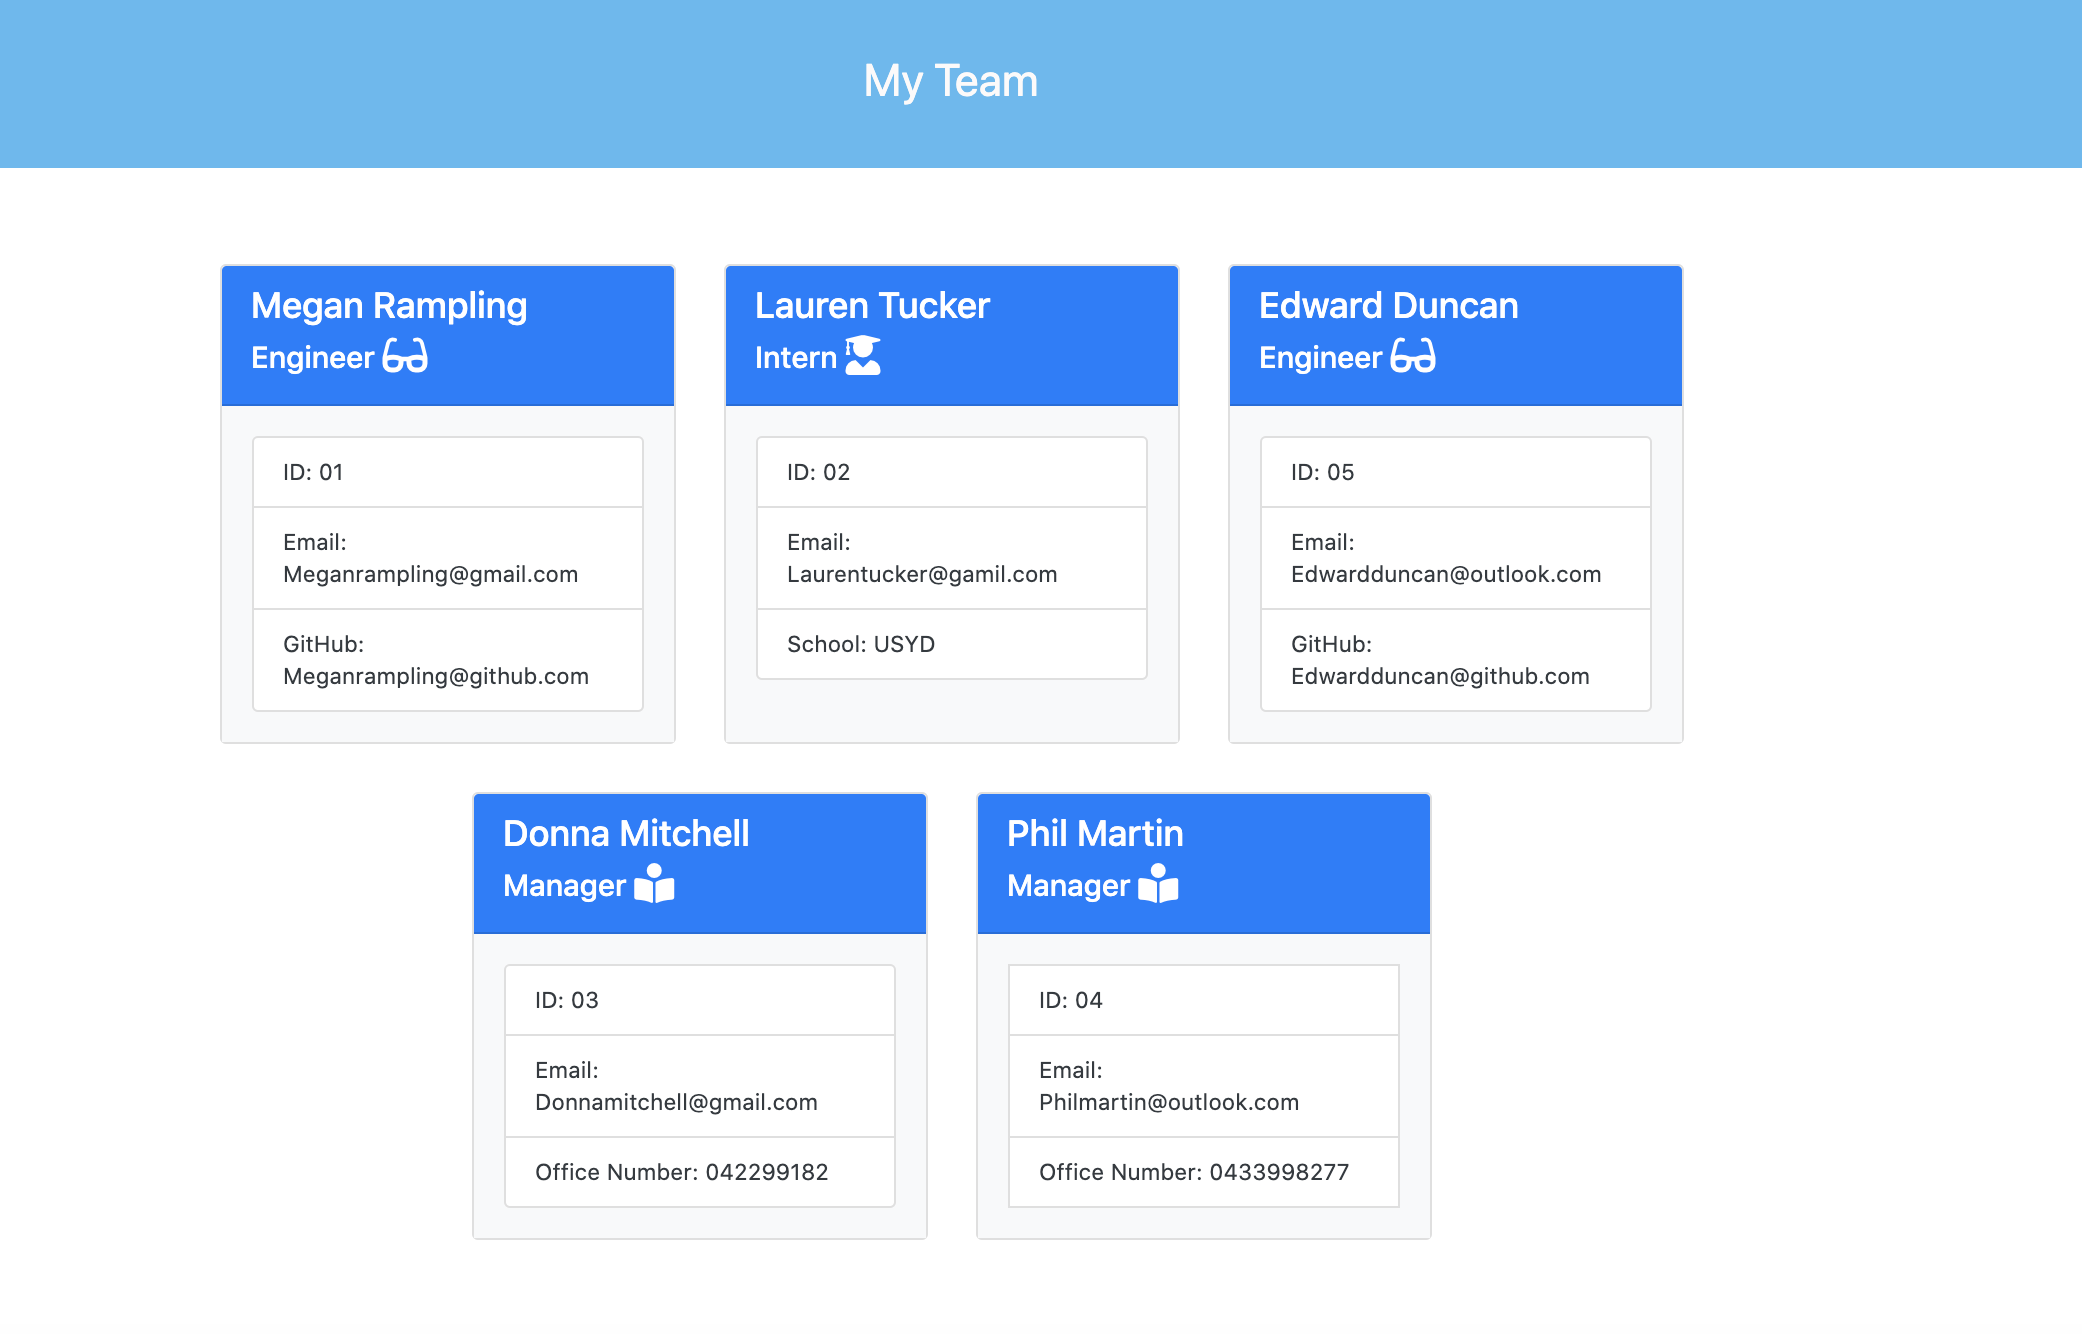
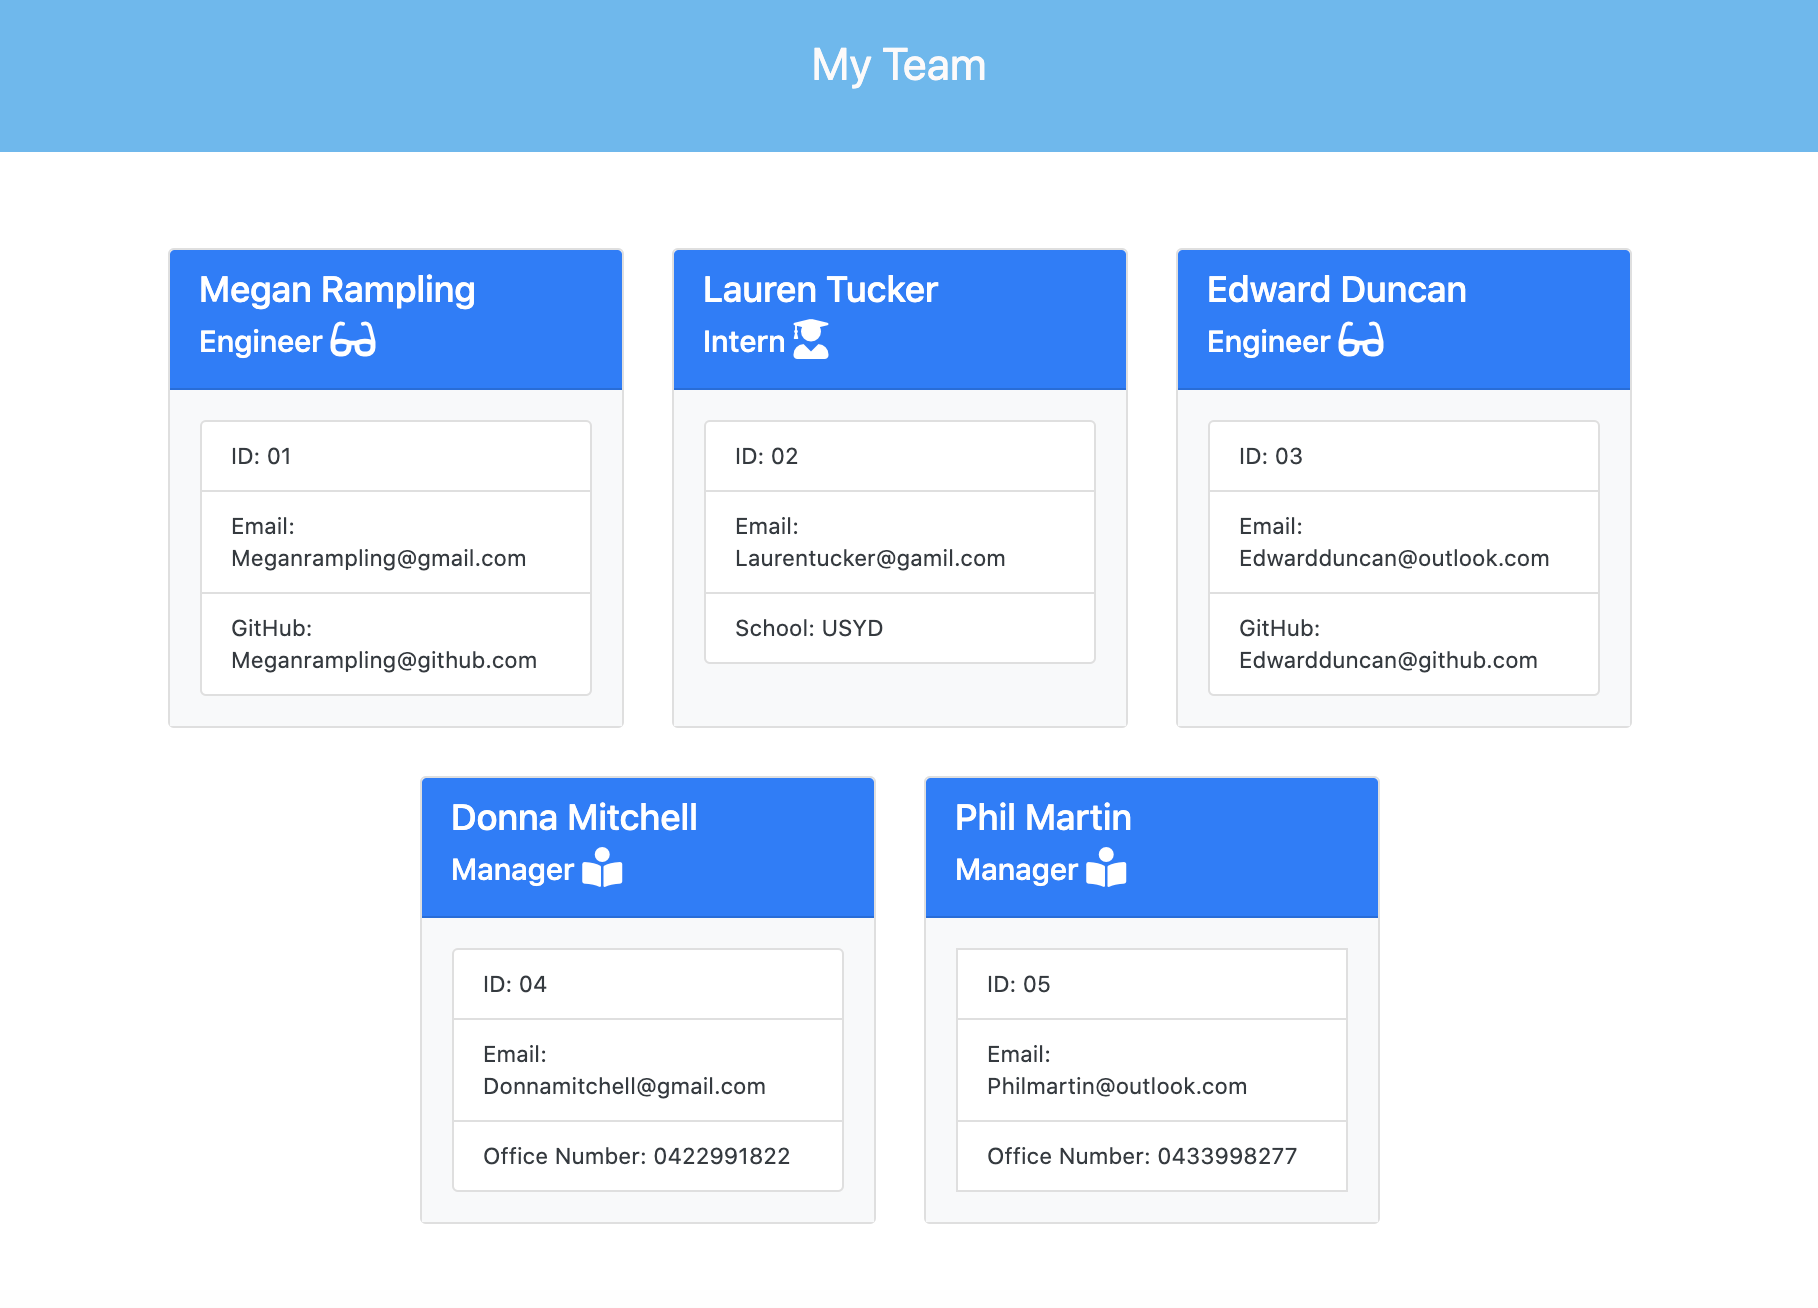
Employee Summary Templete, rewrtie read.me

diff --git a/output/team.html b/output/team.html
@@ -63,7 +63,7 @@
     </div>
     <div class="card-body bg-light text-dark">
         <ul class="list-group">
-            <li class="list-group-item" style="font-size: 15px;">ID: 05</li>
+            <li class="list-group-item" style="font-size: 15px;">ID: 03</li>
             <li class="list-group-item" style="font-size: 15px;">Email: Edwardduncan@outlook.com</li>
             <li class="list-group-item" style="font-size: 15px;">GitHub: Edwardduncan@github.com</li>
         </ul>
@@ -78,9 +78,9 @@
     </div>
     <div class="card-body bg-light text-dark">
         <ul class="list-group">
-            <li class="list-group-item" style="font-size: 15px;">ID: 03</li>
+            <li class="list-group-item" style="font-size: 15px;">ID: 04</li>
             <li class="list-group-item" style="font-size: 15px;">Email: Donnamitchell@gmail.com</li>
-            <li class="list-group-item" style="font-size: 15px;">Office Number: 042299182</li>
+            <li class="list-group-item" style="font-size: 15px;">Office Number: 0422991822</li>
         </ul>
     </div>
 </div>
@@ -93,7 +93,7 @@
     </div>
     <div class="card-body bg-light text-dark">
         <li class="list-group">
-            <li class="list-group-item" style="font-size: 15px;">ID: 04</li>
+            <li class="list-group-item" style="font-size: 15px;">ID: 05</li>
             <li class="list-group-item" style="font-size: 15px;">Email: Philmartin@outlook.com</li>
             <li class="list-group-item" style="font-size: 15px;">Office Number: 0433998277</li>
         </ul>

diff --git a/README.md b/README.md
@@ -21,7 +21,6 @@ so that I have quick access to emails and GitHub profiles
 
 ![Employee Summary 1](./assets/10-OOP-homework-demo-1.png)
 ![Employee Summary 2](./assets/10-OOP-homework-demo-2.gif)
-![Employee Summary 3](./assets/10-OOP-homework-demo-3.mov)
 Or the full video is [here](./assets/10-OOP-homework-demo-3.mov)  
 
 In the `Develop` folder, there is a `package.json`, so make sure to `npm install`.
